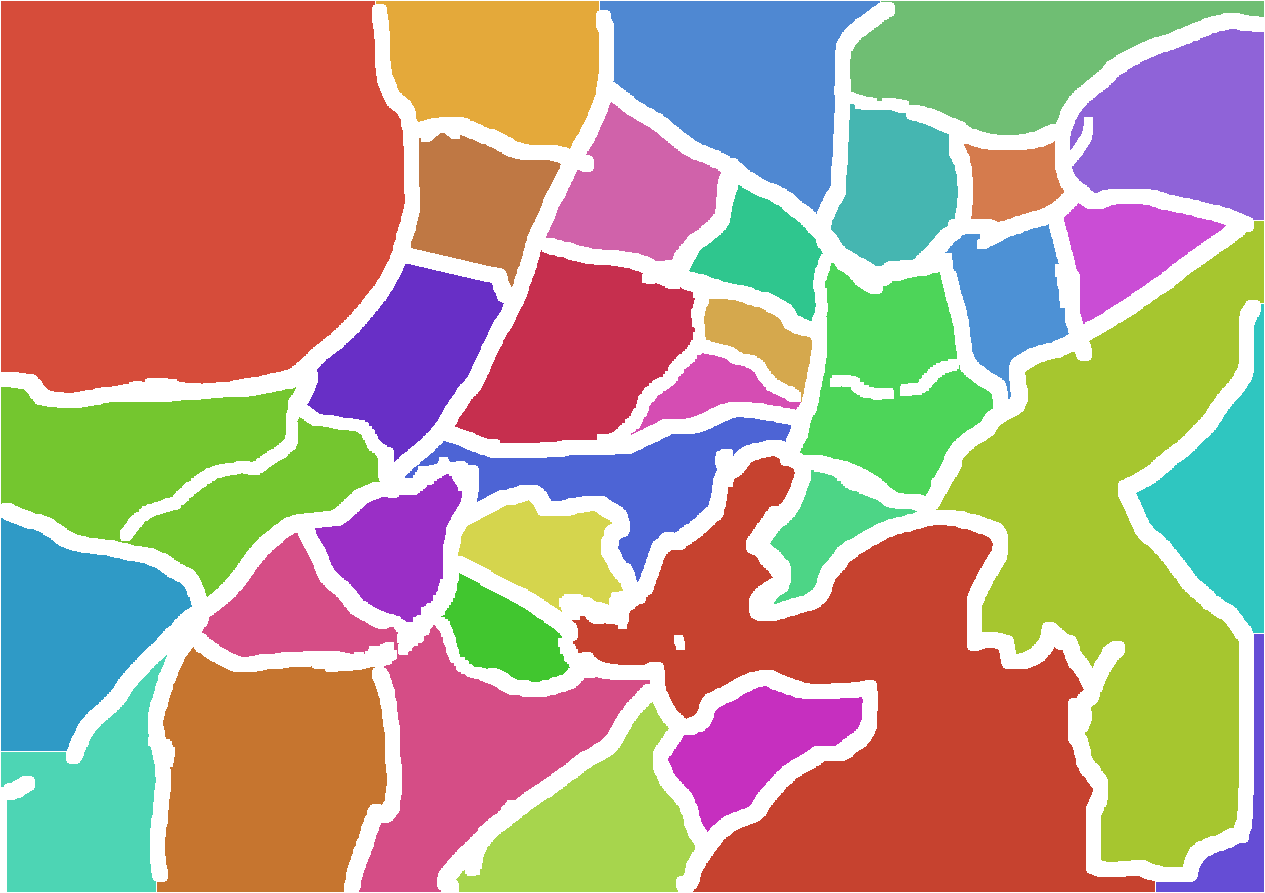
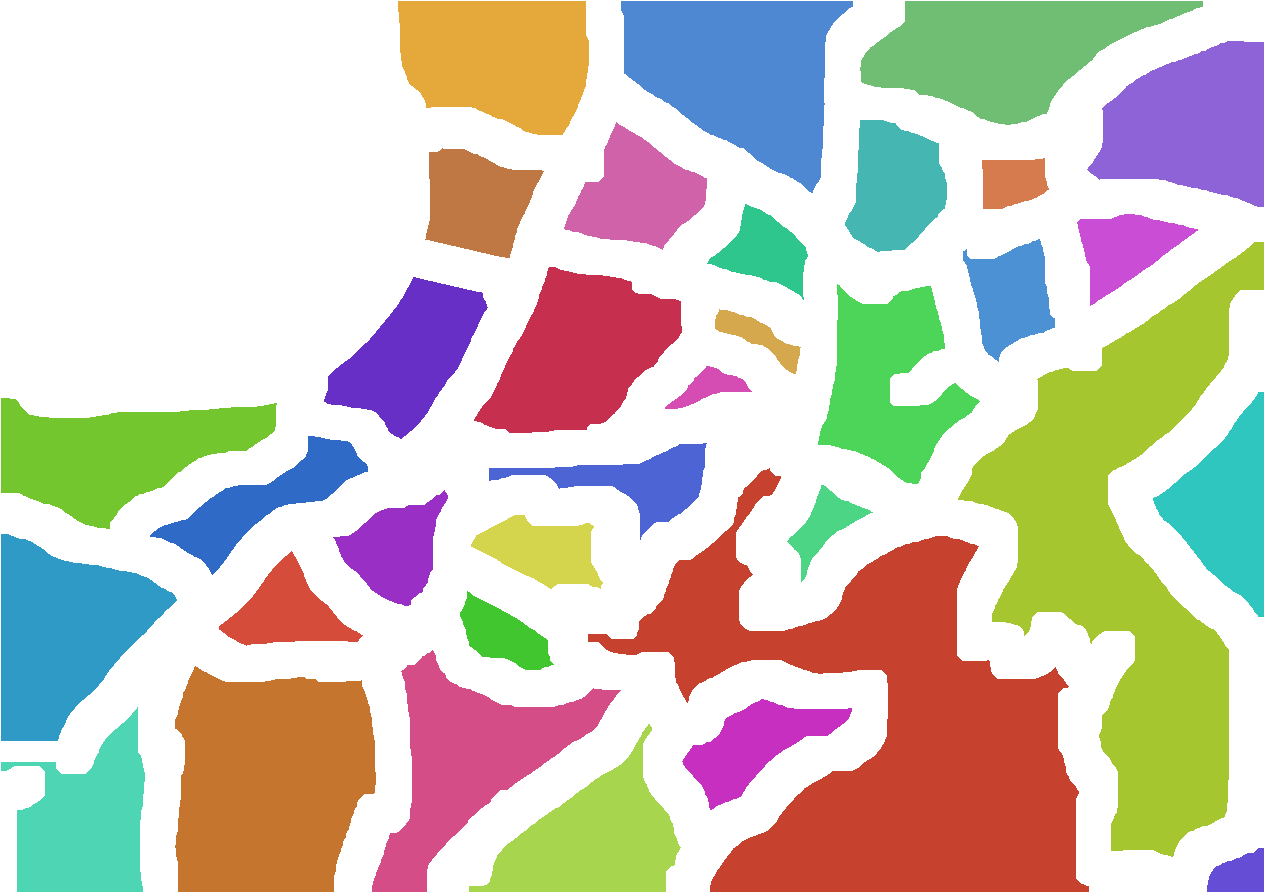
修正七大恨正式区域生成的喀喇沁部匹配
- 为 formal 按边界生成补充喀喇沁部稳定锚点
- 重建正式 region-mask.png，恢复 34 个印刷闭合区

diff --git a/src/pages/devtools/QidahenRegionMaskTool.tsx b/src/pages/devtools/QidahenRegionMaskTool.tsx
@@ -477,6 +477,8 @@ const HEURISTIC_BARRIER_LINE_FILTER = {
 const HAND_DRAWN_BOUNDARY_GENERATION_MATCH_POINT_OVERRIDES = new Map<string, MaskPoint>([
     // 原图中“保定左上”的大同字样点。旧 formal mask 曾把这块并错，调试生成时要优先认回这里。
     ['city-region-1', { x: 315, y: 606 }],
+    // 喀喇沁部旧保存成果曾把颜色/seed 落到锦州闭合区；formal 生成时必须固定认回这块独立闭合区本身。
+    ['city-region-21', { x: 250, y: 505 }],
 ]);
 
 const binaryMasksEqual = (left: Uint8Array, right: Uint8Array) => {
